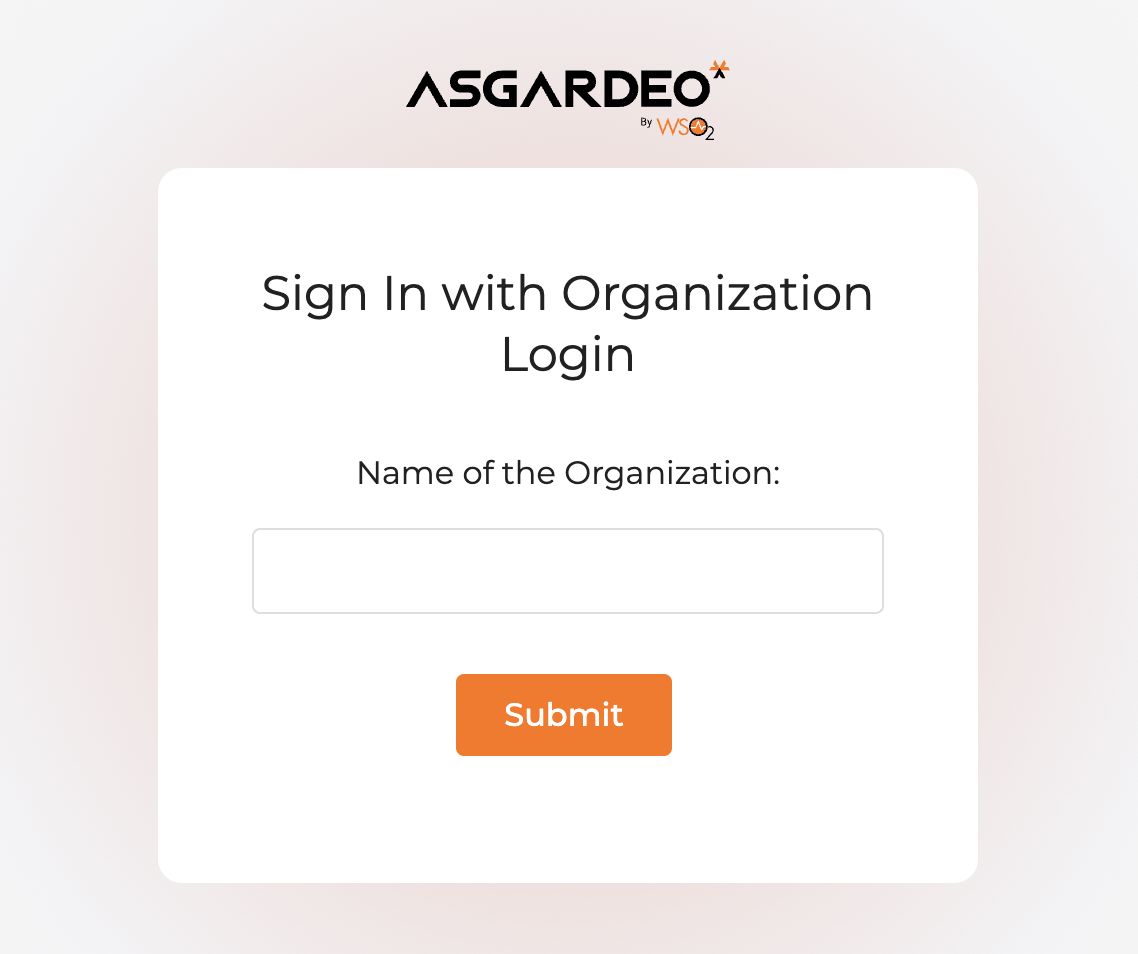
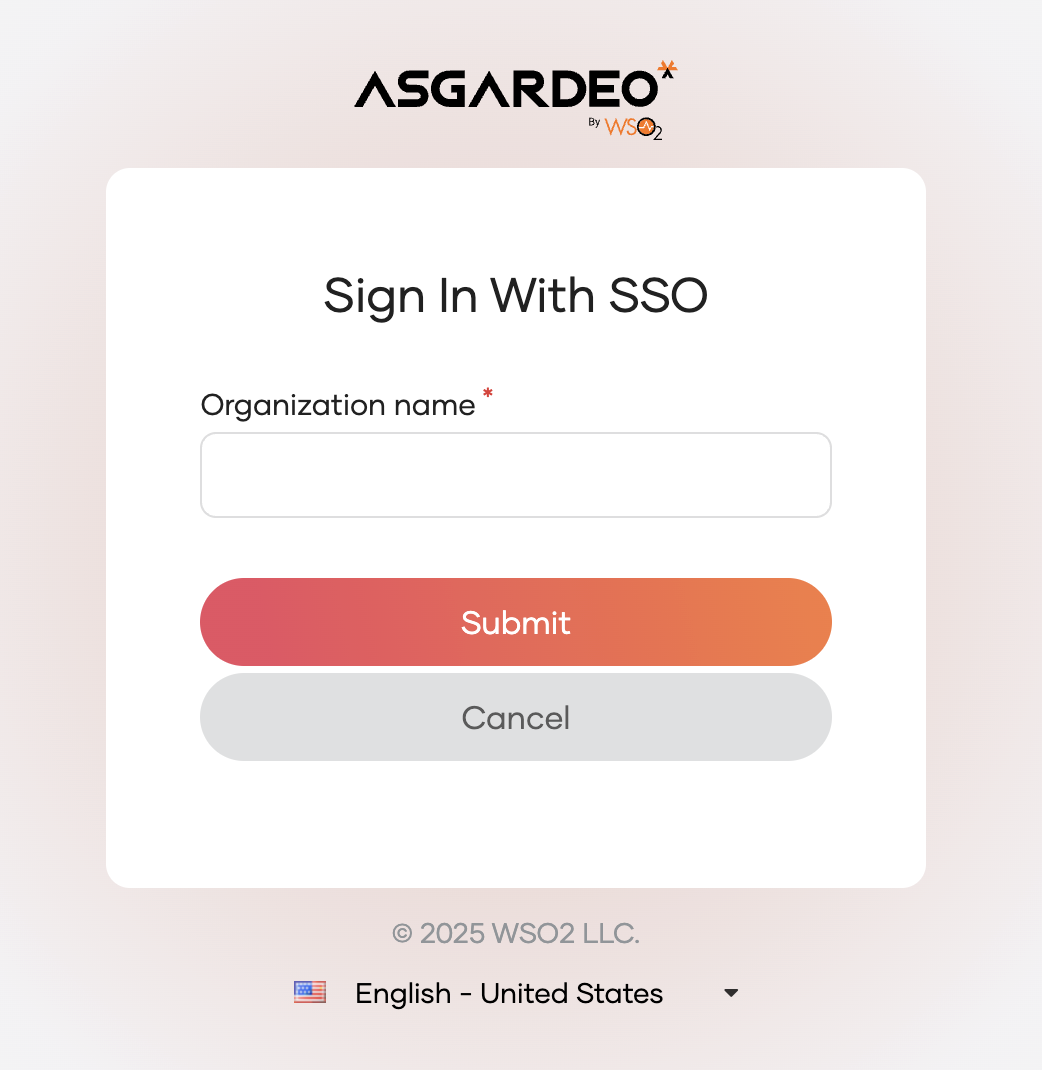
Fix discovery doc org name issue and update outdated image

diff --git a/en/includes/guides/organization-management/try-a-b2b-use-case-pet-care.md b/en/includes/guides/organization-management/try-a-b2b-use-case-pet-care.md
@@ -541,7 +541,11 @@ Follow the steps below to see how organization login works for a user in the **H
 
 3. Click **Sign In with SSO** to specify the organization to which you are signing in.
 
+{% if product_name != "Asgardeo" and (product_name == "WSO2 Identity Server" and is_version > "7.1.0") %}
+4. Enter the **Organization Handle** of the organization and click **Submit**.
+{% else %}
 4. Enter **Happy Tails** as the organization name and click **Submit**.
+{% endif %}
 
     ![Sign in with SSO]({{base_path}}/assets/img/guides/organization/manage-organizations/sign-in-with-sso.png){: width="400" style="display: block; margin: 0; border: 0.3px solid lightgrey;"}
 
